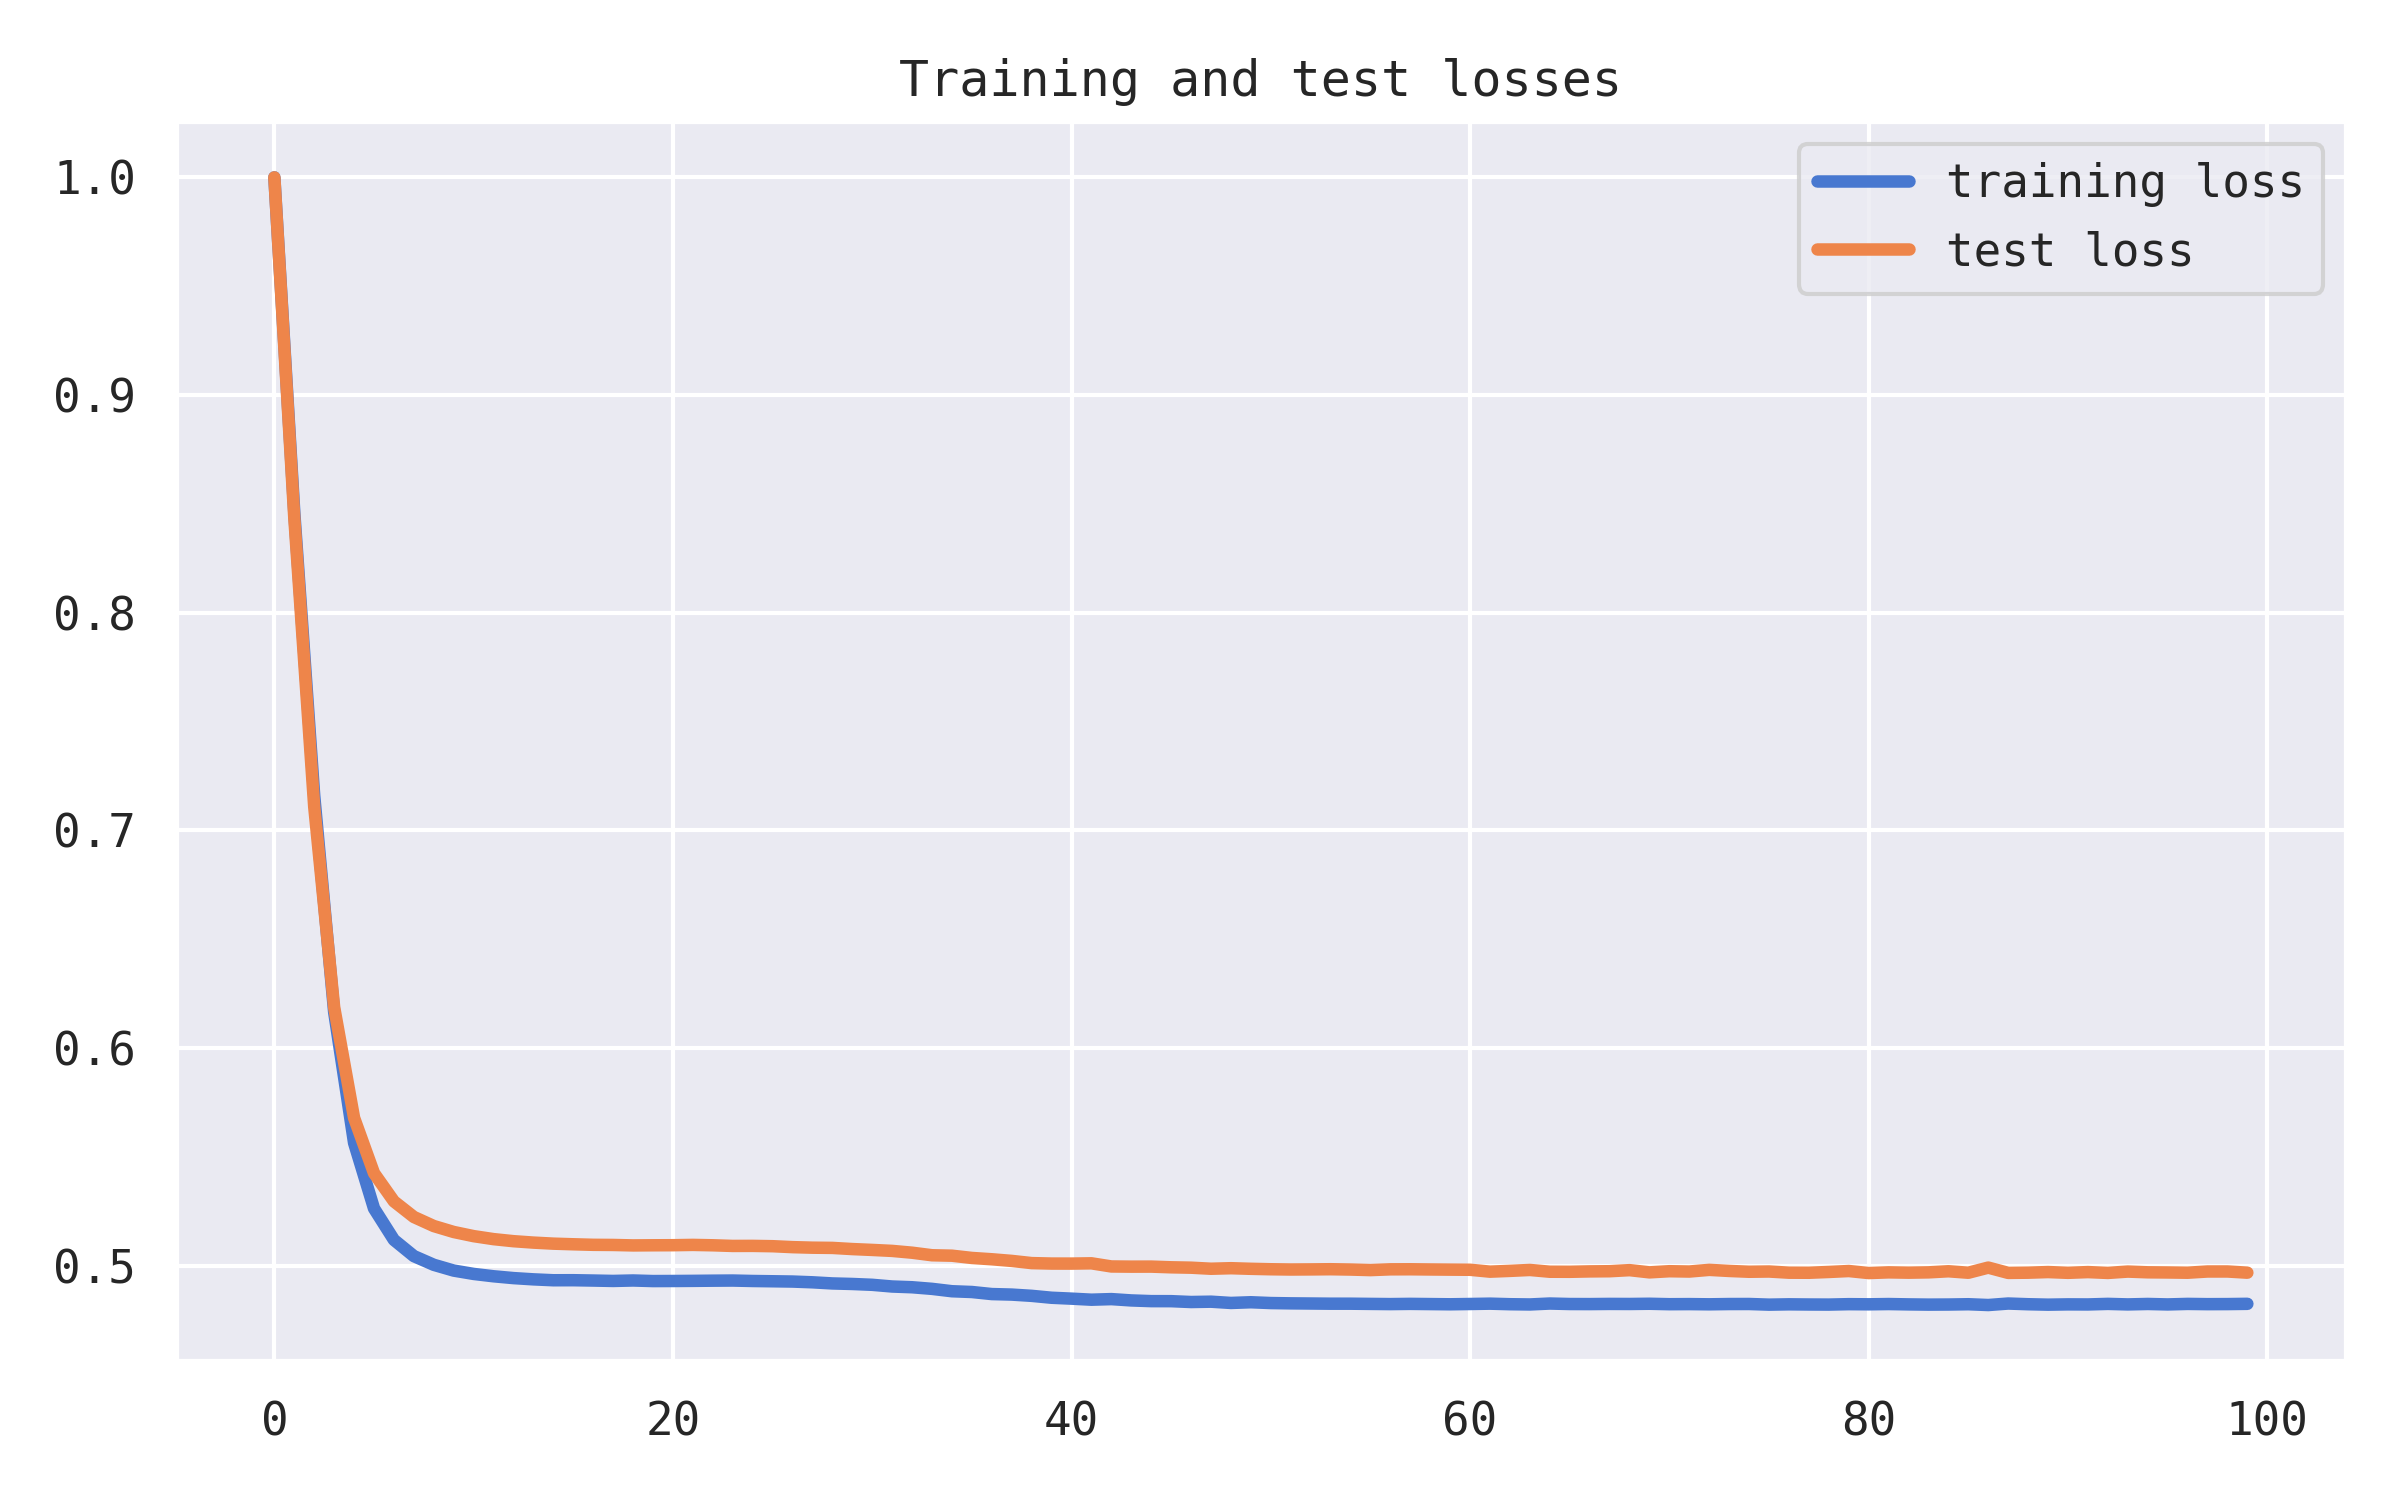
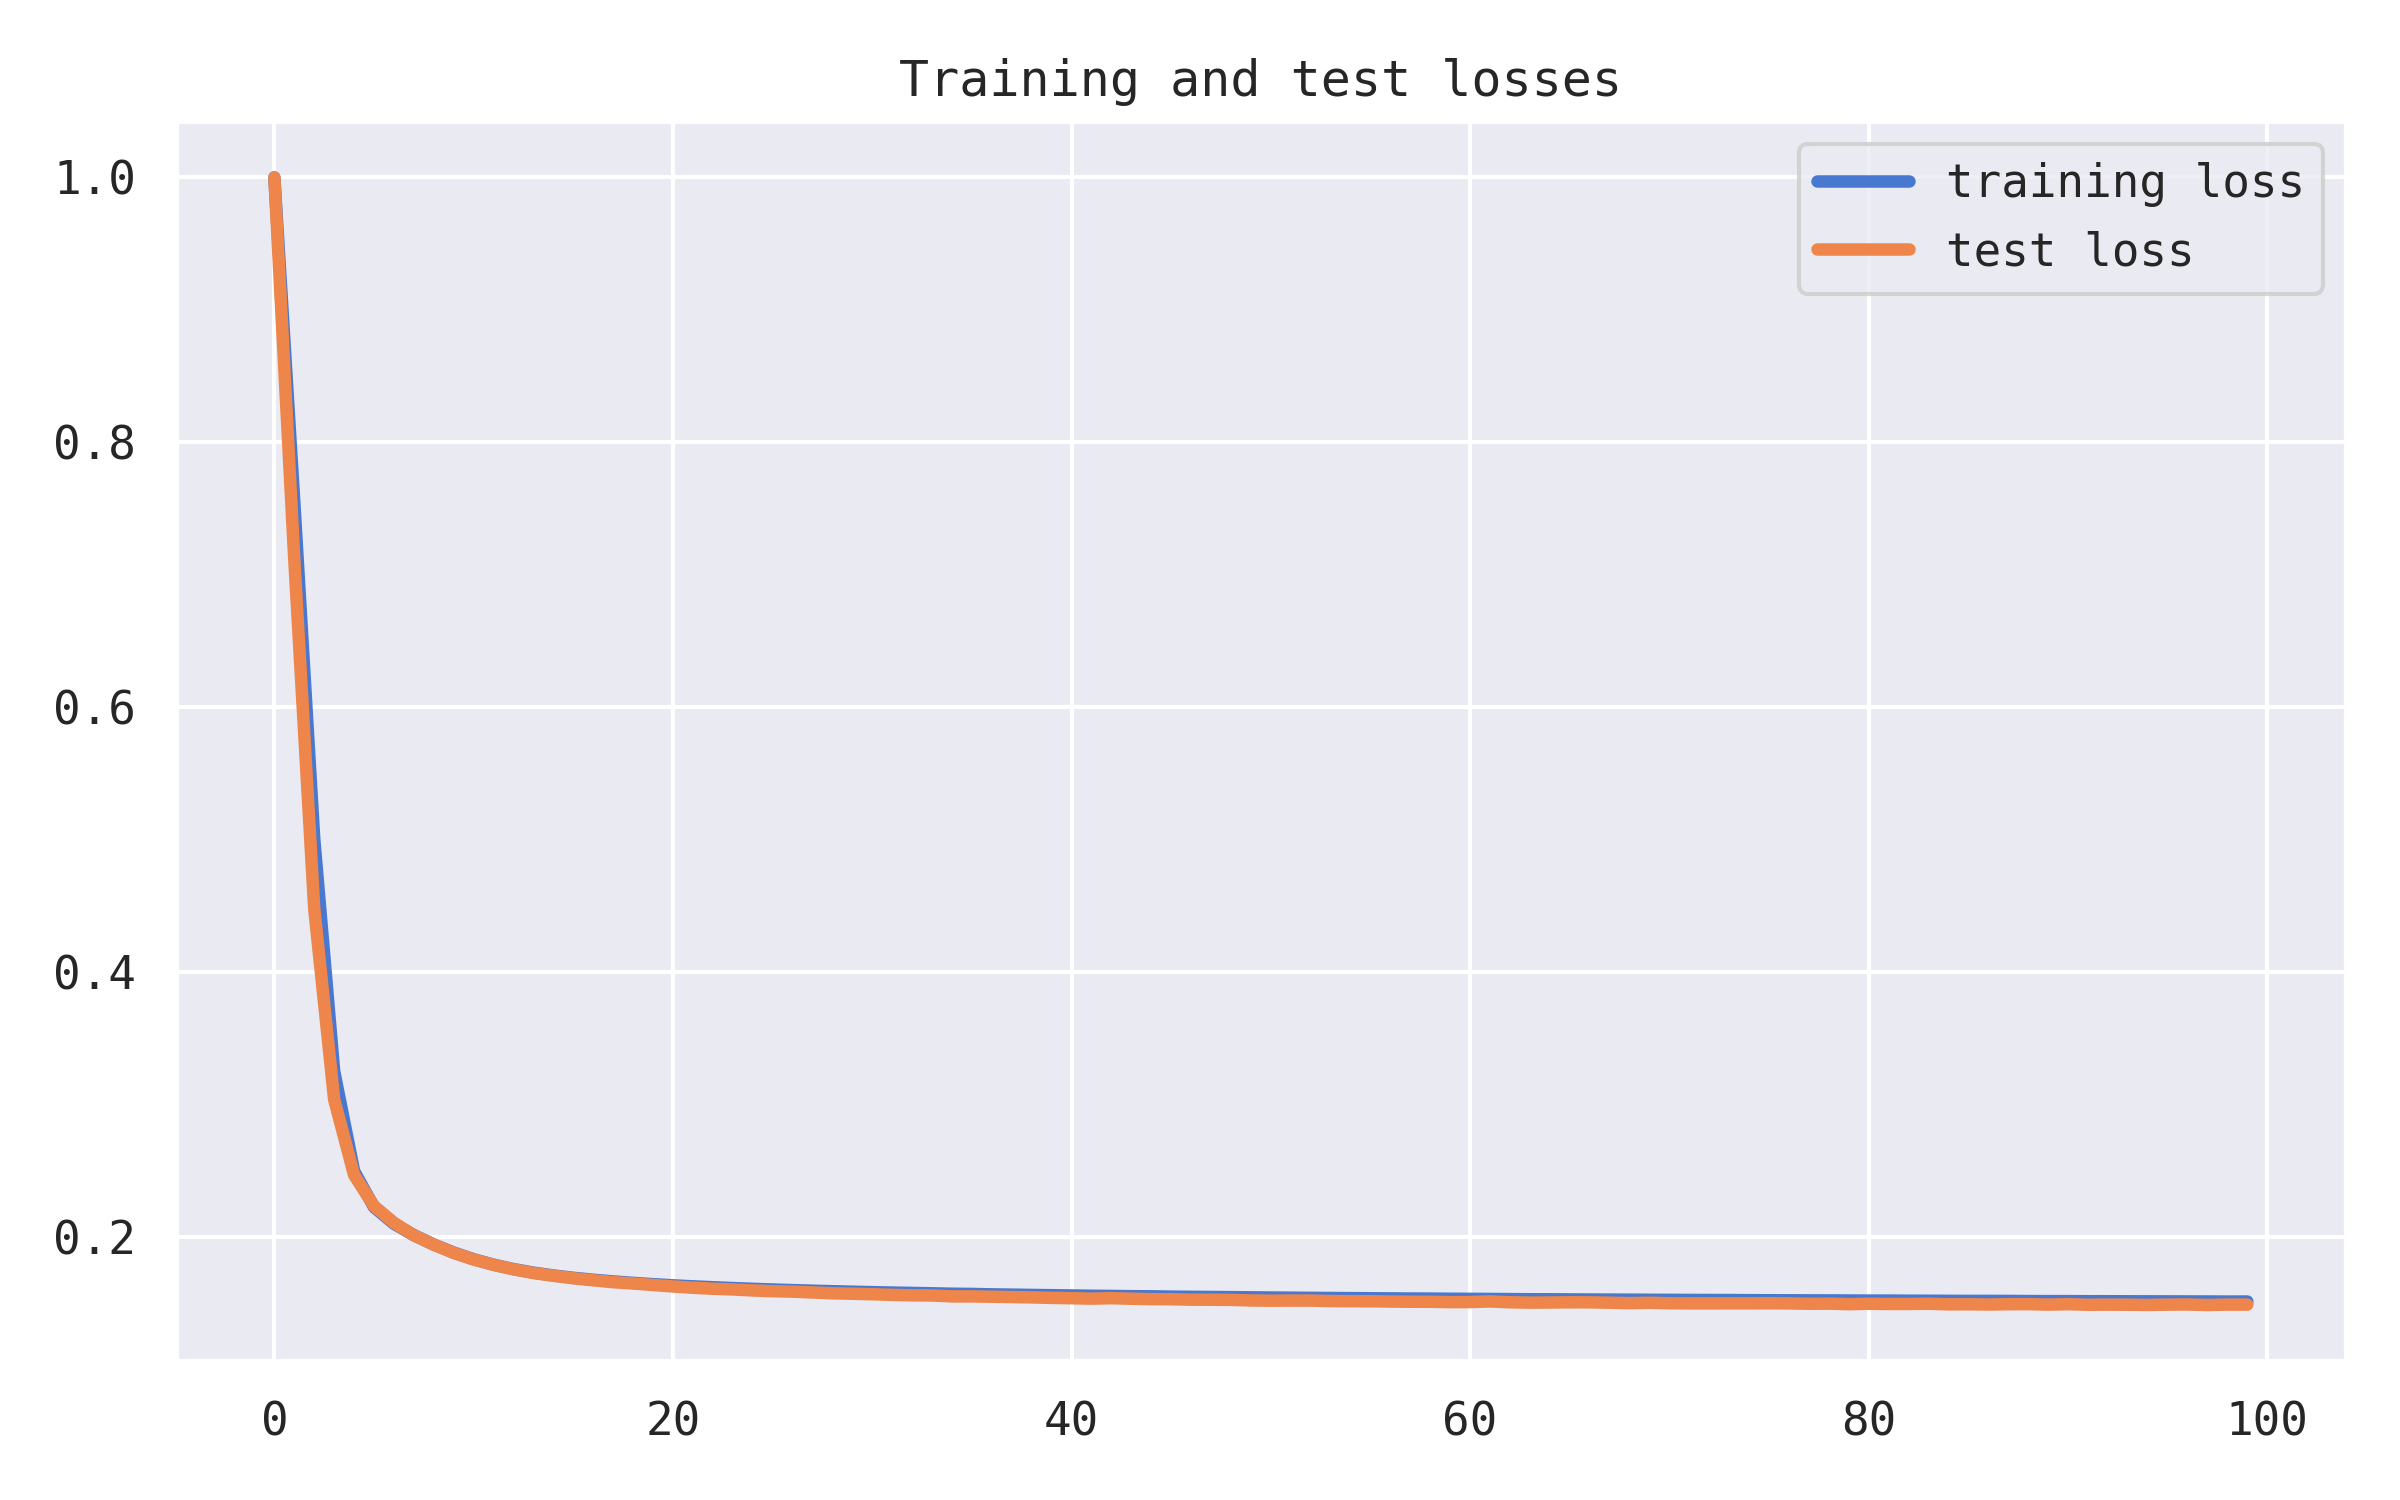
change parameters

diff --git a/main.py b/main.py
@@ -38,6 +38,7 @@ def load_data(data_file, validation_split=.1):
                  + data['num_meals_not_home']\
                  + data['num_meals_fast_food'] > 90].index, inplace=True)
     data['num_home_cook'] = 90 - data['num_meals_not_home']\
+                               - data['num_meals_fast_food']\
                                - data['num_ready_foods_30_days']\
                                - data['num_frozen_foods_30_days']
 
@@ -61,6 +62,7 @@ def setup_model(input_size, output_size):
     fix_random_seed()
     model = tf.keras.Sequential([
         tf.keras.layers.InputLayer(input_shape=input_size),
+        ##tf.keras.layers.Dense(64, activation='relu'),
         tf.keras.layers.Dense(32, activation='relu'),
         tf.keras.layers.Dense(output_size, activation='softmax')
     ])
@@ -106,14 +108,14 @@ def train_model_ml(model, params):
 
     # compile and train ml-model
     model.compile(optimizer=optimizer,
-                  loss=tf.keras.losses.CategoricalCrossentropy(),
-                  metrics=tf.keras.metrics.MeanSquaredError())
+                  loss=tf.keras.losses.MeanSquaredError(),
+                  metrics=tf.keras.metrics.CategoricalCrossentropy())
     tqdm_callback = tfa.callbacks.TQDMProgressBar(show_epoch_progress=False)
     history = model.fit(x_tr, y_tr, batch_size=params['batch_size'], epochs=params['num_epoch'],
                         validation_data=(x_ts,y_ts), verbose=0, callbacks=[tqdm_callback])
 
     return (history.history['loss'], history.history['val_loss']),\
-           (history.history['mean_squared_error'], history.history['val_mean_squared_error'])
+           (history.history['categorical_crossentropy'], history.history['val_categorical_crossentropy'])
 
 
 def train_model_bs(model, params):
@@ -123,8 +125,8 @@ def train_model_bs(model, params):
 
     # compile and train bs-model
     model.compile(optimizer=optimizer,
-                  loss=tf.keras.losses.CategoricalCrossentropy(),
-                  metrics=tf.keras.metrics.MeanSquaredError())
+                  loss=tf.keras.losses.MeanSquaredError(),
+                  metrics=tf.keras.metrics.CategoricalCrossentropy())
     losses_tr, losses_ts = [], []
     metrics_tr, metrics_ts = [], []
     for epoch in tqdm(range(params['num_epoch']), desc='Training'):
@@ -148,8 +150,8 @@ def train_model_bs(model, params):
         # compute loss over the epoch
         losses_tr.append(np.mean(batch_losses))
         losses_ts.append(besci_loss(x_ts, y_ts, model(x_ts)).numpy())
-        metrics_tr.append(tf.keras.metrics.MeanSquaredError()(y_tr, model(x_tr)))
-        metrics_ts.append(tf.keras.metrics.MeanSquaredError()(y_ts, model(x_ts)))
+        metrics_tr.append(tf.keras.metrics.CategoricalCrossentropy()(y_tr, model(x_tr)))
+        metrics_ts.append(tf.keras.metrics.CategoricalCrossentropy()(y_ts, model(x_ts)))
 
     return (losses_tr, losses_ts), (metrics_tr, metrics_ts)
 

diff --git a/besci.py b/besci.py
@@ -16,7 +16,7 @@ def uncertainty_age(age):
 
 def uncertainty_income(income):
     '''estimate uncertainty based on income'''
-    return 0
+    return .5*income
 
 
 def uncertainty_gender(gender):
@@ -31,7 +31,8 @@ def uncertainty_race(race):
 
 def uncertainty_edu(edu):
     '''estimate uncertainty based on education'''
-    return 0
+    # here I'm incresing uncertainty with higher education
+    return (edu[:,0] + 2*edu[:,1] + 4*edu[:,2] + 8*edu[:,3]).reshape(-1,1) / 16
 
 
 def uncertainty_marital(marital):
@@ -53,8 +54,9 @@ def besci_loss(x, y, z):
     u_marital = uncertainty_marital(d_marital)
 
     # compute besci-loss
-    u = 1 - u_age * u_income * u_gender * u_race * u_edu * u_marital
-    loss = tf.reduce_mean(-u * tf.reduce_sum(y * tf.math.log(z), axis=1))
+    certainty = (1 - u_age) * (1 - u_income) * (1 - u_gender) * (1 - u_race) * (1 - u_edu) * (1 - u_marital)
+    ##loss = tf.reduce_mean(-certainty * tf.reduce_sum(y * tf.math.log(z), axis=1))
+    loss = tf.reduce_mean(certainty * tf.square(y - z))
 
     return loss
 
